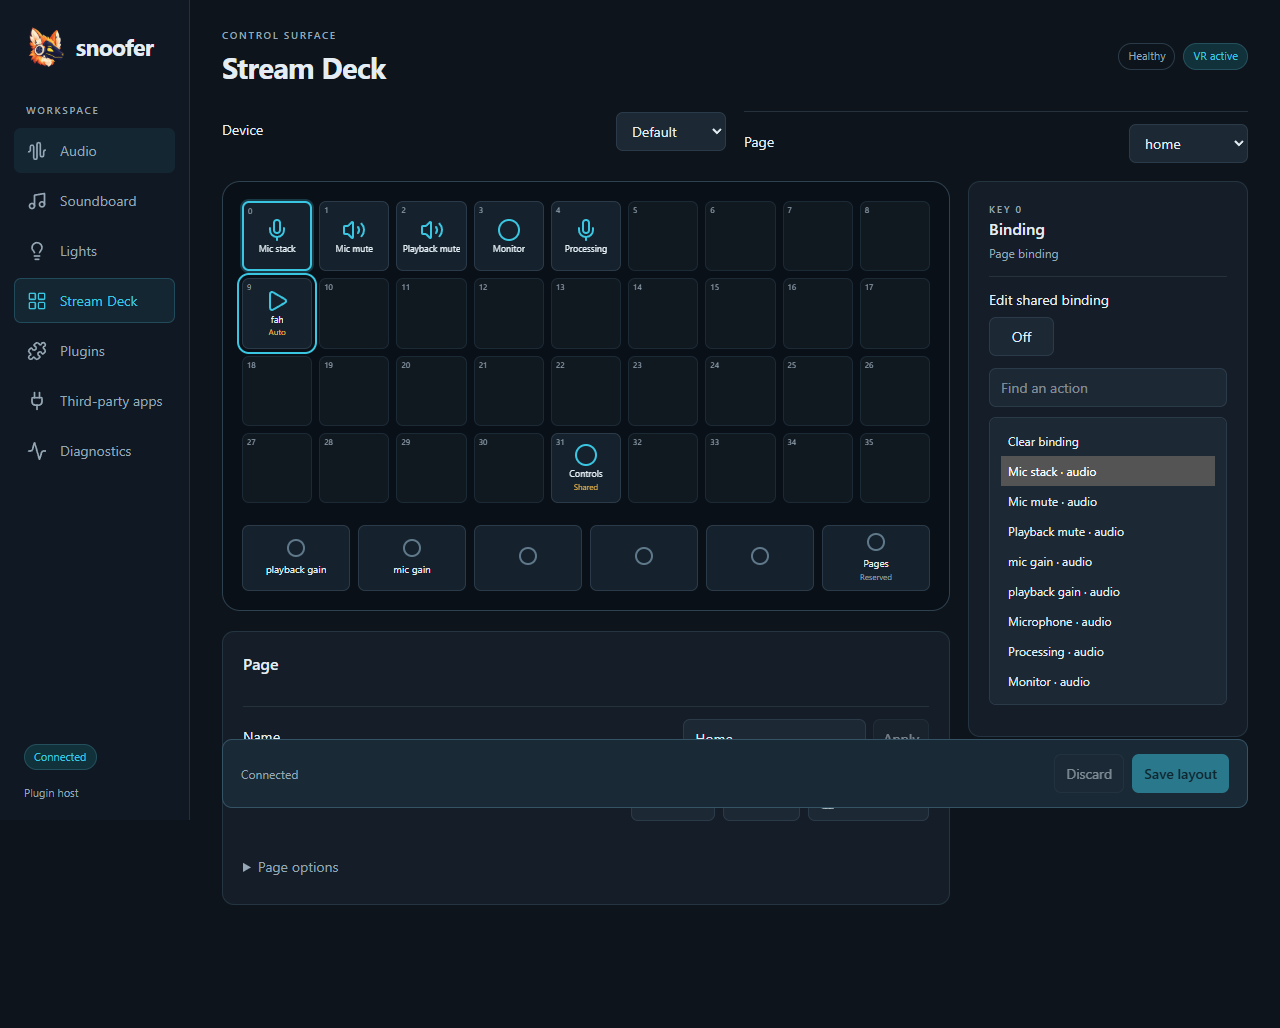
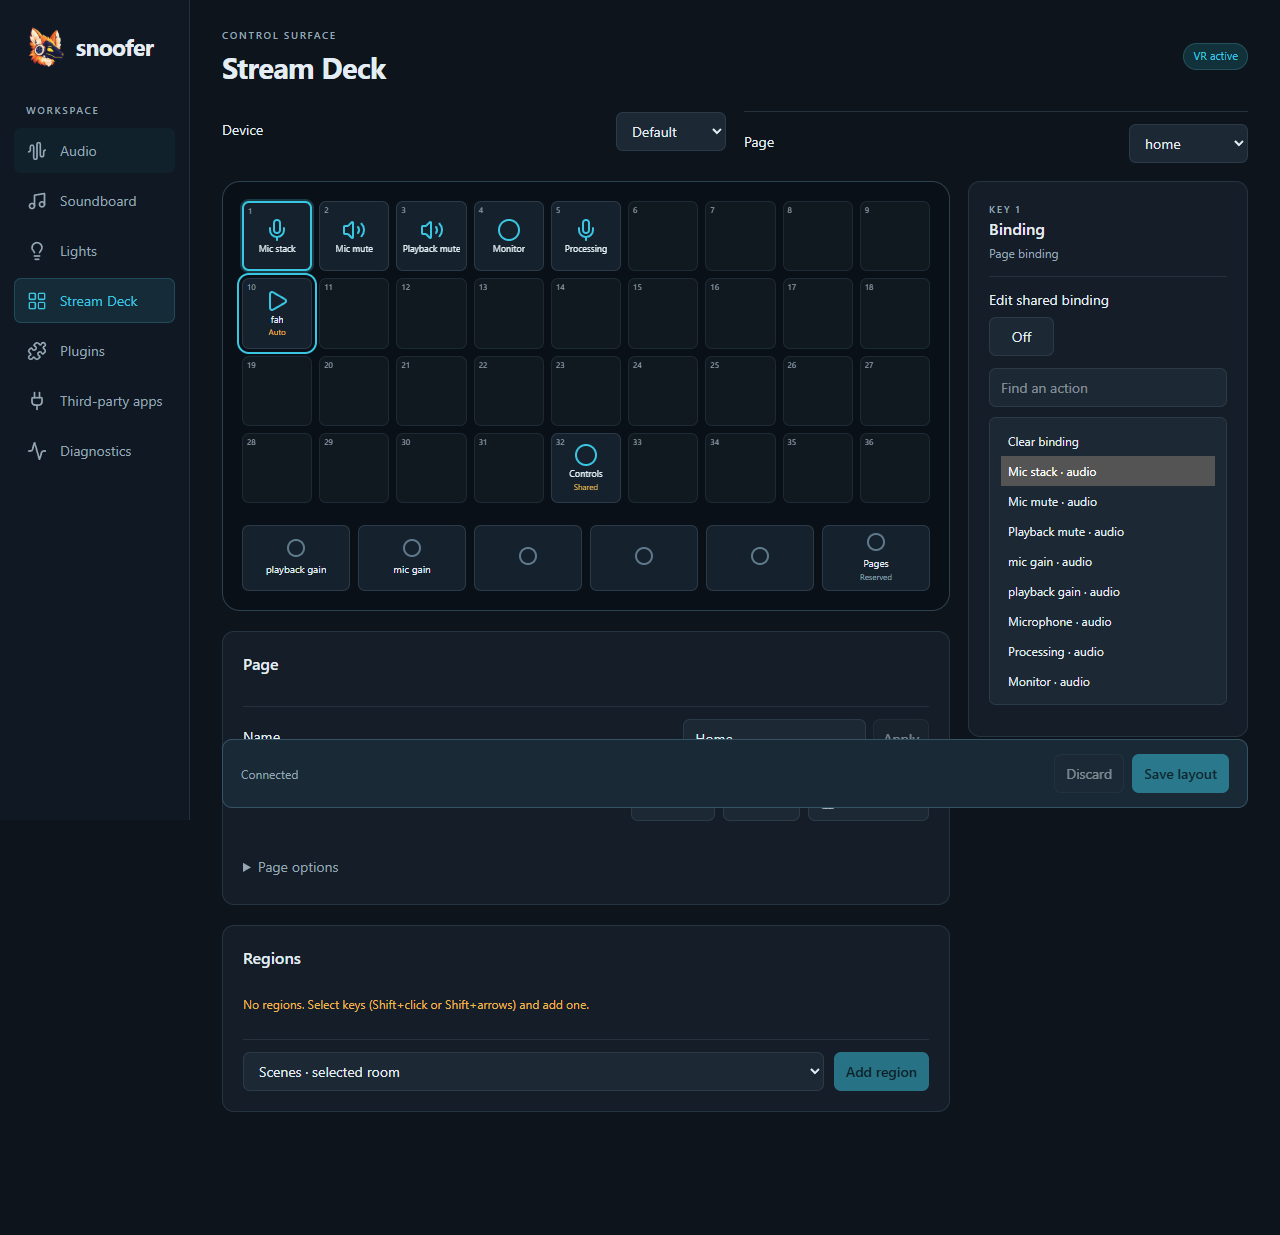
feat(gui): edit deck regions from a key selection
Shift+click or Shift+arrows select a rectangle of keys without
dispatching anything; Add region creates a region from it with a named
collection, and the Regions list changes a region's source or removes
it as draft edits. Region cells are tinted and numbered, and keys are
numbered from 1 throughout. The automatic prefix field is gone; editing
a legacy page converts its prefix into a whole-page region. Draft copies
now copy region lists, and the binding picker offers go-to page keys.

diff --git a/app/web/app.js b/app/web/app.js
@@ -331,6 +331,18 @@ function buildLights(){
   help.className=failed?"text-critical":"text-muted";help.hidden=!help.textContent;
  });
 }
+// deckRange is the GUI-local key rectangle for creating regions; selecting it
+// never dispatches anything. It resets when the edited page changes.
+let deckRange=null;
+function rangeKeys(range){
+ if(!range)return [];
+ const top=Math.min(Math.floor(range.anchor/9),Math.floor(range.end/9)),bottom=Math.max(Math.floor(range.anchor/9),Math.floor(range.end/9));
+ const left=Math.min(range.anchor%9,range.end%9),right=Math.max(range.anchor%9,range.end%9);
+ const out=[];for(let row=top;row<=bottom;row++)for(let col=left;col<=right;col++)out.push(row*9+col);return out;
+}
+function regionKeysLabel(first,last){
+ const keys=rangeKeys({anchor:first,end:last});return keys.length===1?"Key "+(keys[0]+1):"Keys "+(keys[0]+1)+"–"+(keys.at(-1)+1);
+}
 function buildDeck(){
  const preview=c("streamdeck.preview");
  if(!preview?.ViewData){empty(root,"Stream Deck is disabled or its editor is not ready.");return;}
@@ -342,15 +354,25 @@ function buildDeck(){
  workspace.append(left,inspector);root.append(workspace);
  const frame=el("div","mb-5 rounded-[18px] border border-[#2e414f] bg-deck p-[19px]"),keys=el("div","grid grid-cols-9 gap-[7px]"),dials=el("div","mt-[22px] grid grid-cols-6 gap-2");frame.append(keys,dials);left.append(frame);
  keys.setAttribute("aria-label","Deck keys");dials.setAttribute("aria-label","Deck dials");
- const keyClass="relative flex aspect-square min-w-0 flex-col items-center justify-center overflow-hidden rounded-[7px] bg-key px-[3px] py-[5px] text-[9px] data-[empty=true]:border-[#1c2a36] data-[empty=true]:bg-key-empty aria-pressed:border-2 aria-pressed:border-active aria-pressed:shadow-[0_0_0_2px_#183a46] min-[1500px]:text-xs max-[1120px]:text-[11px]";
+ const keyClass="relative flex aspect-square min-w-0 flex-col items-center justify-center overflow-hidden rounded-[7px] bg-key px-[3px] py-[5px] text-[9px] data-[empty=true]:border-[#1c2a36] data-[empty=true]:bg-key-empty data-[region=true]:bg-active-bg data-[range=true]:outline-2 data-[range=true]:outline-dashed data-[range=true]:outline-active aria-pressed:border-2 aria-pressed:border-active aria-pressed:shadow-[0_0_0_2px_#183a46] min-[1500px]:text-xs max-[1120px]:text-[11px]";
  const dialClass="flex min-h-[62px] min-w-0 flex-col items-center justify-center bg-key px-1 py-[7px] text-[10px] before:mb-[5px] before:size-[18px] before:rounded-full before:border-2 before:border-[#60798a] before:content-[''] aria-pressed:border-2 aria-pressed:border-active aria-pressed:shadow-[0_0_0_2px_#183a46] *:max-w-full *:truncate";
  function slotButton(index,dial){
-  const b=button("",()=>request(c("streamdeck.slot"),"set",(dial?"Dial ":"Key ")+(dial?index-36+1:index+1)),dial?dialClass:keyClass);
+  const b=button("",e=>{
+   // Shift extends the region selection without selecting a binding.
+   if(!dial&&e.shiftKey&&deckRange){deckRange.end=index;update();return;}
+   if(!dial)deckRange={page:c("streamdeck.page")?.Value,anchor:index,end:index};
+   request(c("streamdeck.slot"),"set",(dial?"Dial ":"Key ")+(dial?index-36+1:index+1));
+  },dial?dialClass:keyClass);
   b.dataset.part=dial?"dial":"deck-key";
-  const number=el("small","absolute top-0.5 left-1 text-[8px] text-muted",String(dial?index-36+1:index)),glyph=el("span","leading-tight text-active"),name=el("span","max-w-full truncate"),source=el("span","text-[8px] text-attention");
-  if(!dial)b.append(number,glyph);b.append(name,source);(dial?dials:keys).append(b);
+  const number=el("small","absolute top-0.5 left-1 text-[8px] text-muted",String(dial?index-36+1:index+1)),glyph=el("span","leading-tight text-active"),name=el("span","max-w-full truncate"),source=el("span","text-[8px] text-attention"),regionTag=el("small","absolute right-1 bottom-0.5 text-[8px] text-active");
+  if(!dial)b.append(number,glyph,regionTag);b.append(name,source);(dial?dials:keys).append(b);
   b.onkeydown=e=>{
    if(!e.key.startsWith("Arrow"))return;e.preventDefault();
+   if(!dial&&e.shiftKey){
+    deckRange??={page:c("streamdeck.page")?.Value,anchor:index,end:index};
+    deckRange.end=gridMove(deckRange.end,e.key,9,36);update();
+    keys.children[deckRange.end]?.focus();return;
+   }
    const list=[...(dial?dials:keys).querySelectorAll("button:not(:disabled)")];
    const next=gridMove(list.indexOf(b),e.key,dial?5:9,list.length);list[next]?.focus();
   };
@@ -358,7 +380,10 @@ function buildDeck(){
    const view=c("streamdeck.preview")?.ViewData;if(!view)return;
    const slot=dial?view.Dials[index-36]:view.Keys[index],item=c(slot.Control);
    b.setAttribute("aria-pressed",String(view.Selected===index));
-   b.setAttribute("aria-label",(dial?"Dial "+(index-35):"Key "+index)+": "+(item?.Label||slot.Label||"Empty")+(slot.Source?" · "+slot.Source:""));
+   const region=slot.Region??-1,inRange=!dial&&rangeKeys(deckRange).includes(index);
+   b.dataset.region=String(region>=0);b.dataset.range=String(inRange);
+   if(!dial)regionTag.textContent=region>=0?"R"+(region+1):"";
+   b.setAttribute("aria-label",(dial?"Dial "+(index-35):"Key "+(index+1))+": "+(item?.Label||slot.Label||"Empty")+(slot.Source?" · "+slot.Source:"")+(region>=0?" · Region "+(region+1):"")+(inRange?" · In selection":""));
    b.title=b.getAttribute("aria-label");b.disabled=!!pending;
    b.dataset.empty=String(!slot.Control);
    name.textContent=item?.ShortLabel||item?.Label||slot.Label||"";
@@ -380,12 +405,12 @@ function buildDeck(){
  command("streamdeck.earlier","Earlier",commands,"","chevron-left");command("streamdeck.later","Later",commands,"","chevron-right");command("streamdeck.home","Make Home",commands,"","house");
  const more=el("details","mt-4"),summary=el("summary","","Page options");more.append(summary);tools.append(more);
  control("streamdeck.add",more,"New page");
- control("streamdeck.auto-controls",more,"Automatic prefix");
+ regionsPanel(left);
  const deletion=el("div",ui.actions+" justify-end");more.append(deletion);
  const del=command("streamdeck.delete","Delete page",deletion,ui.danger);
  if(del)del.onclick=()=>{if(window.confirm("Delete this page from the draft? Save applies the deletion."))press("streamdeck.delete");};
  const selected=preview.ViewData.Selected,dial=selected>=36;
- const eyebrow=el("div","text-[10px] font-semibold tracking-[1.7px] text-muted",dial?"DIAL "+(selected-35):"KEY "+selected);eyebrow.dataset.part="eyebrow";
+ const eyebrow=el("div","text-[10px] font-semibold tracking-[1.7px] text-muted",dial?"DIAL "+(selected-35):"KEY "+(selected+1));eyebrow.dataset.part="eyebrow";
  inspector.append(eyebrow,el("h2",ui.h2,"Binding"));
  const ownership=el("p",ui.note+" mt-1");inspector.append(ownership);
  updaters.push(()=>{
@@ -403,7 +428,8 @@ function buildDeck(){
   select.replaceChildren();
   const clear=el("option","","Clear binding");clear.value="";select.append(clear);
   for(const item of controls.values()){
-   if(item.ID.startsWith("streamdeck.") || !compatible(item,dial))continue;
+   // Go-to page keys are the only Stream Deck controls that can be bound.
+   if((item.ID.startsWith("streamdeck.")&&!item.ID.startsWith("streamdeck.goto-")) || !compatible(item,dial))continue;
    const label=item.Label+" · "+item.ID.split(".")[0];
    if(!label.toLocaleLowerCase().includes(search.value.toLocaleLowerCase())&&item.ID!==value)continue;
    const option=el("option","",label);option.value=item.ID;option.title=item.ID;select.append(option);
@@ -421,6 +447,45 @@ function buildDeck(){
   const v=c("streamdeck.preview")?.ViewData;status.textContent=c("streamdeck.status")?.Value||"";
   status.className="text-xs "+(v?.Dirty?"text-attention":"text-muted");
   if(discard)discard.disabled=!!pending||!v?.Dirty;if(save)save.disabled=!!pending||!v?.Dirty;
+ });
+}
+function regionsPanel(parent){
+ const view=c("streamdeck.preview")?.ViewData;if(!view||!c("streamdeck.region-add"))return;
+ const card=panel("Regions",parent,"mt-5 grid gap-3");card.dataset.part="regions";
+ const collections=view.Collections||[];
+ const sourceSelect=(value,label)=>{
+  const select=el("select","min-w-0 flex-1");
+  for(const item of collections){const option=el("option","",item.Label);option.value=item.ID;select.append(option);}
+  if(value&&!collections.some(item=>item.ID===value)){const option=el("option","",label||value);option.value=value;select.append(option);}
+  select.value=value||collections[0]?.ID||"";return select;
+ };
+ const regions=view.Regions||[];
+ if(!regions.length)card.append(el("p",ui.note,"No regions. Select keys (Shift+click or Shift+arrows) and add one."));
+ regions.forEach((region,i)=>{
+  const row=el("div","flex flex-wrap items-center gap-2.5");row.dataset.part="region";
+  const name=el("strong","w-7 text-xs text-active","R"+(i+1)),select=sourceSelect(region.Source,region.Label),keysLabel=el("small","text-muted",region.Legacy?"Whole page · prefix":regionKeysLabel(region.First,region.Last));
+  select.setAttribute("aria-label","Region "+(i+1)+" source");
+  select.onfocus=()=>{select.editRevision=c("streamdeck.region-source")?.Revision;};
+  select.onchange=()=>{request(c("streamdeck.region-source"),"set",i+","+select.value,0,select.editRevision);select.blur();};
+  const remove=button("Remove",()=>request(c("streamdeck.region-remove"),"set",String(i)),ui.danger);remove.setAttribute("aria-label","Remove region "+(i+1));
+  row.append(name,select,keysLabel,remove);card.append(row);
+  updaters.push(()=>{select.disabled=remove.disabled=!!pending;});
+ });
+ const add=el("div","flex flex-wrap items-center gap-2.5 border-t border-[#25323e] pt-3"),source=sourceSelect("",""),create=button("",()=>{
+  if(!deckRange)return;
+  request(c("streamdeck.region-add"),"set",deckRange.anchor+","+deckRange.end+","+source.value);
+  deckRange=null;
+ },ui.primary);
+ source.setAttribute("aria-label","New region source");create.dataset.part="add-region";
+ add.append(source,create);card.append(add);
+ updaters.push(()=>{
+  if(deckRange&&deckRange.page!==c("streamdeck.page")?.Value)deckRange=null;
+  const keysInRange=rangeKeys(deckRange),current=c("streamdeck.preview")?.ViewData;
+  const overlaps=keysInRange.some(k=>(current?.Keys[k]?.Region??-1)>=0);
+  create.textContent=deckRange?"Add region · "+regionKeysLabel(deckRange.anchor,deckRange.end):"Add region";
+  create.disabled=!!pending||!deckRange||overlaps||!collections.length;
+  create.title=overlaps?"The selection overlaps a region":!deckRange?"Select keys first":"";
+  source.disabled=!collections.length;
  });
 }
 // Deck key previews map a control's deck icon to the closest Lucide icon.
@@ -510,7 +575,7 @@ function buildDiagnostics(){
 function layoutKey(){
  // Values and telemetry are updated in place. Only structure/context rebuilds a screen.
  const list=[...controls.values()].map(v=>[v.ID,v.Label,v.Kind,v.Group,v.Options,v.OptionLabels]);
- return JSON.stringify([screen,list,Object.keys(state.Plugins||{}),screen==="lights"?[state.Enabled?.hue,c("hue.group")?.Value]:null,screen==="deck"?[c("streamdeck.preview")?.ViewData?.Selected,c("streamdeck.page")?.Value,c("streamdeck.profile")?.Value,c("streamdeck.shared")?.Value]:null]);
+ return JSON.stringify([screen,list,Object.keys(state.Plugins||{}),screen==="lights"?[state.Enabled?.hue,c("hue.group")?.Value]:null,screen==="deck"?[c("streamdeck.preview")?.ViewData?.Selected,c("streamdeck.page")?.Value,c("streamdeck.profile")?.Value,c("streamdeck.shared")?.Value,c("streamdeck.preview")?.ViewData?.Regions,c("streamdeck.preview")?.ViewData?.Collections]:null]);
 }
 function build(){
  widgets.length=0;updaters.length=0;root.replaceChildren();

diff --git a/plugins/streamdeck/regions.go b/plugins/streamdeck/regions.go
@@ -2,6 +2,8 @@ package streamdeck
 
 import (
 	"fmt"
+	"slices"
+	"strconv"
 	"strings"
 
 	"sound-snoofer/snoofer"
@@ -90,4 +92,52 @@ func (l Layout) validateRegions(p Page) error {
 		}
 	}
 	return nil
+}
+
+// editRegion applies an editor request to a copy of page n's regions:
+// "add" takes "first,last,source", "source" takes "index,source" and
+// "remove" takes "index". Editing a legacy page first converts its prefix
+// into an explicit whole-page region. The caller validates the result.
+func (l Layout) editRegion(n int, op, value string) (Layout, error) {
+	next := l.clone()
+	page := &next.Pages[n]
+	if len(page.Regions) == 0 && page.AutoControls != "" {
+		page.Regions = []Region{{Source: page.AutoControls, First: 0, Last: Keys - 1}}
+		page.AutoControls = ""
+	}
+	parts := strings.SplitN(value, ",", 3)
+	index := func() (int, error) {
+		i, err := strconv.Atoi(strings.TrimSpace(parts[0]))
+		if err != nil || i < 0 || i >= len(page.Regions) {
+			return 0, fmt.Errorf("unknown region")
+		}
+		return i, nil
+	}
+	switch op {
+	case "add":
+		if len(parts) != 3 {
+			return l, fmt.Errorf("region needs keys and a source")
+		}
+		first, errFirst := strconv.Atoi(strings.TrimSpace(parts[0]))
+		last, errLast := strconv.Atoi(strings.TrimSpace(parts[1]))
+		if errFirst != nil || errLast != nil {
+			return l, fmt.Errorf("region keys must be numbers")
+		}
+		page.Regions = append(page.Regions, Region{Source: strings.TrimSpace(parts[2]), First: first, Last: last})
+	case "source":
+		i, err := index()
+		if err != nil || len(parts) < 2 {
+			return l, fmt.Errorf("unknown region")
+		}
+		page.Regions[i].Source = strings.TrimSpace(strings.Join(parts[1:], ","))
+	case "remove":
+		i, err := index()
+		if err != nil {
+			return l, err
+		}
+		page.Regions = slices.Delete(page.Regions, i, i+1)
+	default:
+		return l, fmt.Errorf("unknown region edit %q", op)
+	}
+	return next, nil
 }

diff --git a/plugins/streamdeck/regions_test.go b/plugins/streamdeck/regions_test.go
@@ -145,3 +145,37 @@ func TestEditorViewRegions(t *testing.T) {
 		t.Fatal(legacy.Regions)
 	}
 }
+
+func TestEditRegion(t *testing.T) {
+	l := Layout{Home: "s", Pages: []Page{{ID: "s", Name: "S", AutoControls: "soundboard.clip-"}}}
+	l.Pages[0].Keys[35] = Binding{Control: "soundboard.stop"}
+
+	// Editing a legacy page converts its prefix into an explicit region.
+	removed, err := l.editRegion(0, "remove", "0")
+	if err != nil || removed.Pages[0].AutoControls != "" || len(removed.Pages[0].Regions) != 0 {
+		t.Fatal("legacy removal", removed.Pages[0], err)
+	}
+	added, err := removed.editRegion(0, "add", "34,0,soundboard.clips")
+	if err != nil || !reflect.DeepEqual(added.Pages[0].Regions, []Region{{Source: "soundboard.clips", First: 34, Last: 0}}) {
+		t.Fatal("add", added.Pages[0].Regions, err)
+	}
+	if err := added.Validate(nil); err != nil {
+		t.Fatal(err)
+	}
+	changed, err := added.editRegion(0, "source", "0,hue.room-scenes")
+	if err != nil || changed.Pages[0].Regions[0].Source != "hue.room-scenes" || added.Pages[0].Regions[0].Source != "soundboard.clips" {
+		t.Fatal("source edit leaked into the original draft", added.Pages[0].Regions, err)
+	}
+	overlapping, err := changed.editRegion(0, "add", "1,2,soundboard.clips")
+	if err != nil || overlapping.Validate(nil) == nil {
+		t.Fatal("overlapping region accepted", err)
+	}
+	for _, bad := range []struct{ op, value string }{{"remove", "5"}, {"add", "x,1,a.b"}, {"add", "1,2"}, {"source", "9,a.b"}, {"rename", ""}} {
+		if _, err := changed.editRegion(0, bad.op, bad.value); err == nil {
+			t.Errorf("%s %q accepted", bad.op, bad.value)
+		}
+	}
+	if l.Pages[0].AutoControls != "soundboard.clip-" {
+		t.Fatal("original layout mutated")
+	}
+}

diff --git a/plugins/streamdeck/editor_view.go b/plugins/streamdeck/editor_view.go
@@ -1,19 +1,30 @@
 package streamdeck
 
-import "sound-snoofer/snoofer"
+import (
+	"slices"
+	"strings"
+
+	"sound-snoofer/snoofer"
+)
 
 // EditorView is read-only presentation of the plugin-owned draft.
 type EditorView struct {
-	Keys     []EditorSlot
-	Dials    []EditorSlot
-	Regions  []EditorRegion
-	Selected int
-	Dirty    bool
-	Home     bool
+	Keys        []EditorSlot
+	Dials       []EditorSlot
+	Regions     []EditorRegion
+	Collections []EditorCollection // Sources the editor offers for regions.
+	Selected    int
+	Dirty       bool
+	Home        bool
 }
 type EditorSlot struct {
 	Control, Label, Source string
 	Region                 int // Index into Regions, or -1.
+}
+
+// EditorCollection is a region source published by some control.
+type EditorCollection struct {
+	ID, Label string
 }
 
 // EditorRegion is a page region with its editor label. Legacy marks the
@@ -38,6 +49,18 @@ func editorView(draft Layout, page string, selected int, dirty bool, controls []
 			region[cell] = n
 		}
 	}
+	seen := map[string]bool{}
+	for _, c := range controls {
+		if c.Collection != "" && !seen[c.Collection] {
+			seen[c.Collection] = true
+			label := c.CollectionLabel
+			if label == "" {
+				label = c.Collection
+			}
+			view.Collections = append(view.Collections, EditorCollection{ID: c.Collection, Label: label})
+		}
+	}
+	slices.SortFunc(view.Collections, func(a, b EditorCollection) int { return strings.Compare(a.Label, b.Label) })
 	slot := func(binding, manual, shared Binding, region int) EditorSlot {
 		source := ""
 		if shared.Control != "" {

diff --git a/plugins/streamdeck/plugin_windows.go b/plugins/streamdeck/plugin_windows.go
@@ -205,7 +205,9 @@ func startWithSurface(ctx context.Context, s snoofer.Services, raw json.RawMessa
 			add("profile", "Device layout", "selection", editSerial, profiles, "set")
 			add("page", "Page", "selection", editPage, pages, "set")
 			add("name", "Rename page", "text", draft.Pages[selected].Name, nil, "set")
-			add("auto-controls", "Auto controls prefix", "text", draft.Pages[selected].AutoControls, nil, "set")
+			add("region-add", "Add region", "text", "", nil, "set")
+			add("region-source", "Region source", "text", "", nil, "set")
+			add("region-remove", "Remove region", "text", "", nil, "set")
 			add("add", "New page (name)", "text", "", nil, "set")
 			add("delete", "Delete page", "command", "", nil, "press")
 			add("earlier", "Move page earlier", "command", "", nil, "press")
@@ -394,8 +396,16 @@ func startWithSurface(ctx context.Context, s snoofer.Services, raw json.RawMessa
 					}
 				case "page":
 					editPage = r.Value
-				case "auto-controls":
-					draft.Pages[draft.index(editPage)].AutoControls = strings.TrimSpace(r.Value)
+				case "region-add", "region-source", "region-remove":
+					next, e := draft.editRegion(n, strings.TrimPrefix(strings.TrimPrefix(r.ID, "streamdeck."), "region-"), r.Value)
+					if e == nil {
+						e = next.Validate(s.Controls.Snapshot())
+					}
+					if e != nil {
+						err = e
+						break
+					}
+					draft = next
 					dirty = true
 				case "name":
 					if strings.TrimSpace(r.Value) == "" {

diff --git a/plugins/streamdeck/layout.go b/plugins/streamdeck/layout.go
@@ -43,7 +43,14 @@ type Settings struct {
 	Serials map[string]Layout `json:"serials,omitempty"`
 }
 
-func (l Layout) clone() Layout { l.Pages = slices.Clone(l.Pages); return l }
+// clone copies pages deeply enough for draft edits, including region lists.
+func (l Layout) clone() Layout {
+	l.Pages = slices.Clone(l.Pages)
+	for n := range l.Pages {
+		l.Pages[n].Regions = slices.Clone(l.Pages[n].Regions)
+	}
+	return l
+}
 func (l Layout) index(id string) int {
 	for n, p := range l.Pages {
 		if p.ID == id {

diff --git a/openspec/changes/deck-regions-lights-page/design.md b/openspec/changes/deck-regions-lights-page/design.md
@@ -66,7 +66,7 @@ type Region struct {
 **Migration.**
 - A page with `auto_controls` and no `regions` behaves exactly as before: one region covering every key, with the prefix as its source.
 - The editor shows it as "Whole page · `<prefix>`".
-- Saving from the editor converts it to `regions` and clears `auto_controls`.
+- Editing that page's regions in the editor first converts the prefix into an explicit whole-page region and clears `auto_controls`. Saving an untouched page keeps it as is.
 
 **Validation.**
 - Indexes must be in range.
@@ -152,7 +152,7 @@ Candidates are recorded for later changes and are not implemented here.
   - **Adding:** `Add region` uses the current rectangle and offers the published collections. It is disabled when the rectangle overlaps an existing region.
   - **Editing:** a region's source can be changed in place.
 - **Plugin requests:** the editor sends `streamdeck.region-add` (value `first,last,source`), `streamdeck.region-source` (`index,source`) and `streamdeck.region-remove` (`index`). All are draft edits; Save applies them as today.
-- **Grid:** region cells get a subtle tint and a small region number. Auto-filled keys keep the `Auto` marker. Key badges are one-based.
+- **Grid:** region cells get the active background tint and a small region number (`R1`); the selection is a dashed outline and clears after a region is added. Auto-filled keys keep the `Auto` marker. Key badges are one-based.
 - **Legacy pages:** the "Automatic prefix" field is removed. A legacy page shows its migrated whole-page region.
 
 ## 8. Default layout

diff --git a/openspec/changes/deck-regions-lights-page/tasks.md b/openspec/changes/deck-regions-lights-page/tasks.md
@@ -27,7 +27,7 @@ Each numbered block is one reviewable commit.
 
   Tests cover a fixed frame, overflow, manual cells, Hidden candidates, overlap rejection and legacy equivalence.
 - [x] 5. `feat(streamdeck)`: go-to page keys and the `deck-page` icon. Covers publishing, press handling, Here state and binding eligibility. Includes tests and a native-size preview.
-- [ ] 6. `feat(gui)`: region editor. Covers:
+- [x] 6. `feat(gui)`: region editor. Covers:
   - rectangle selection (Shift+click, Shift+arrows);
   - the Regions list with a source picker and Remove;
   - region tint and number;
